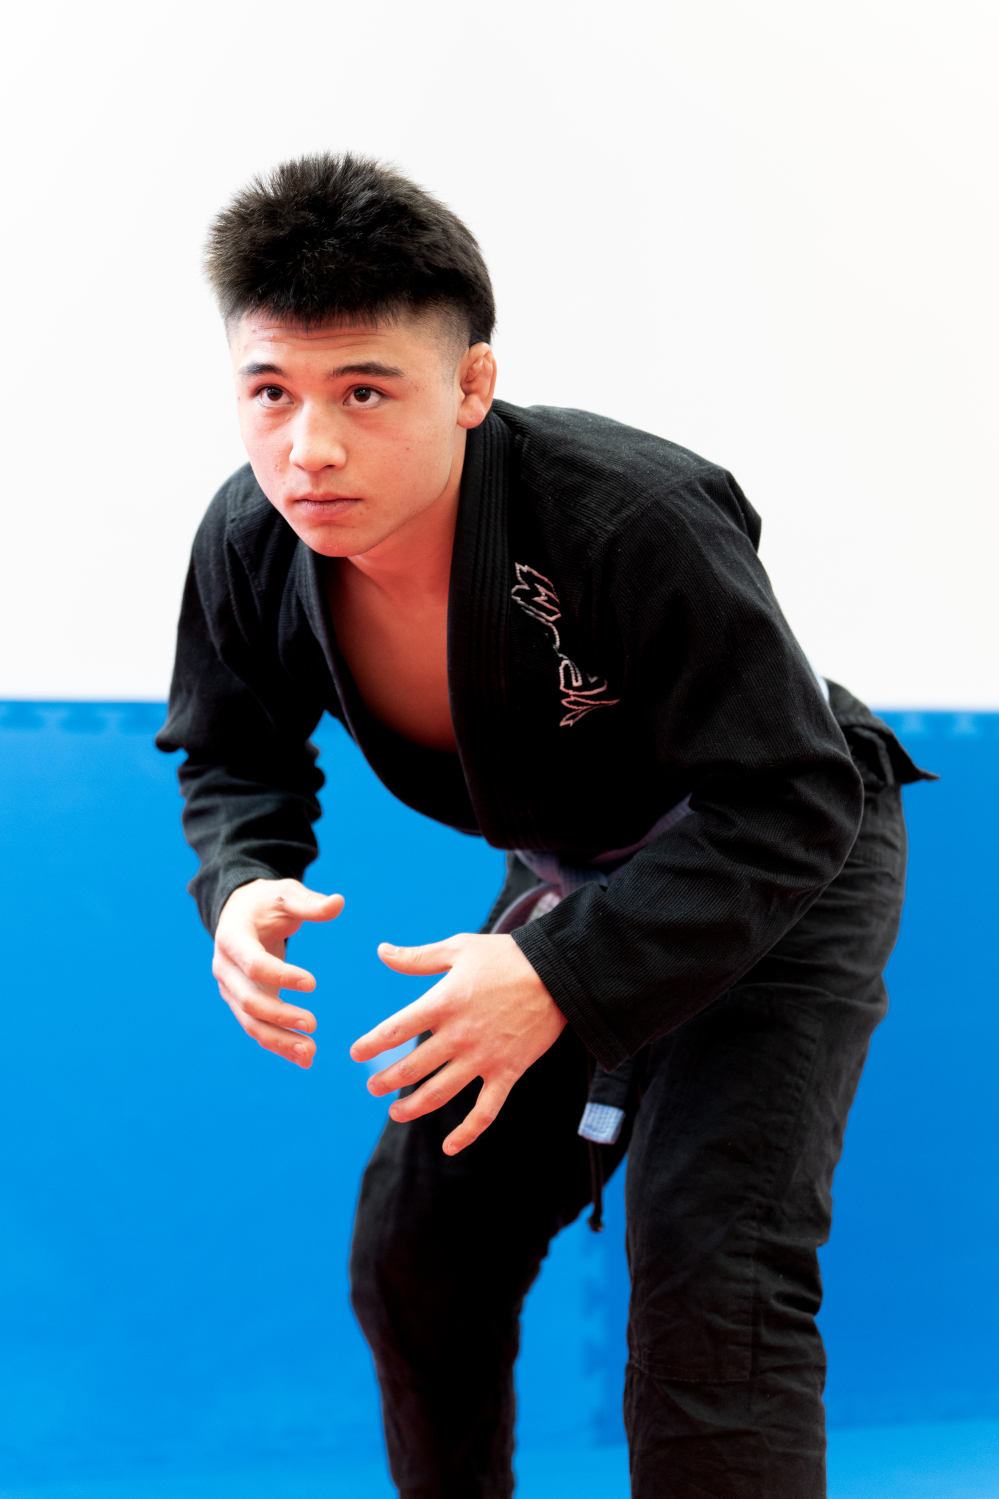
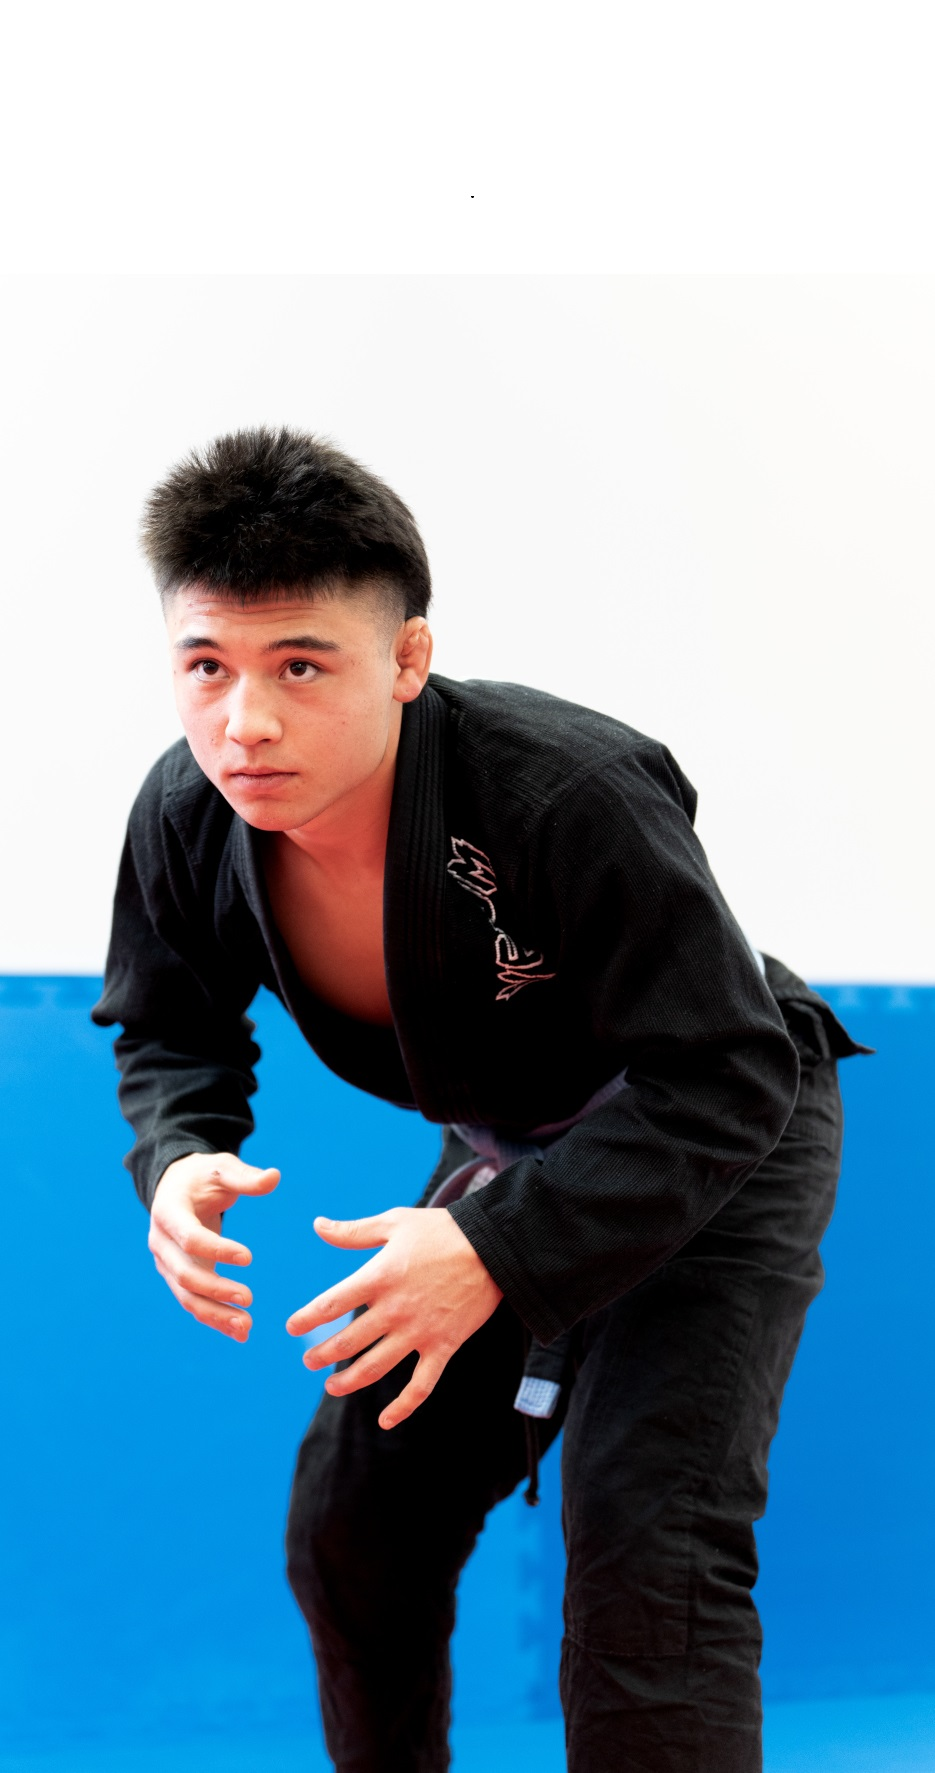
hi

diff --git a/src/Components/Coach.js b/src/Components/Coach.js
@@ -1,6 +1,8 @@
 import '../Stylesheets/Coaches.css'
 import Belt from './Belt'
 import { useState, useEffect } from 'react'
+import { faInstagram } from '@fortawesome/free-brands-svg-icons';
+import { FontAwesomeIcon } from '@fortawesome/react-fontawesome';
 
 export default function Coach({ coach }){
     const [showProfile, setShowProfile] = useState(false)
@@ -9,42 +11,41 @@ export default function Coach({ coach }){
         setShowProfile(prev => !prev)
     }
 
-    useEffect(() => {
-        if (showProfile) {
-            // Set slide to true after showProfile becomes true
-            setSlide(true)
-        } else {
-            // Reset slide to false when hiding the profile
-            setSlide(false)
-        }
-    }, [showProfile])
+ 
     return(
         <div onClick={toggleShowProfile} className="coach-container animate">
-            <div className='image-overlay'>
+<div className={`image-overlay ${coach.name === "Arthur" ? 'left' : ''}`}>
+   
+          <div className='half'>
+             
+          <div>
+             {coach.accomplishments.map((acc, index)=>{
+                    return(
+                        <p className='accomplishment' key={index}>{acc}</p>
+                    )
+                })} </div>
+                </div>
+       
             </div>
-            <div className={`${showProfile ? 'dim' : ''} coach-photo`} >
+            <div className='coach-photo'>
                 <img alt='Brazillian Jiu-Jitsu Instructor' src={coach.image} />
             </div>
+            <div>
+                <div className='name-and-ig'>
+                <p className='coach-nm'> {coach.name}</p> 
+            <a 
+             href={coach.link}
+            target="_blank"
+                rel="noopener noreferrer"
+             aria-label="Visit Instagram">   <FontAwesomeIcon className='ig-icon' icon={faInstagram} /> </a>
+         
+            </div>
+            </div>
+
             <div className='coach-belt'>
                 <Belt belt={coach.belt} />
             </div>
-            <div className='name-and-bio'>
-            <div className={`coach-name ${slide ? 'slide' : ''}`}>
-                {coach.name}
-            </div>
-           
-            <div className={`coach-bio ${slide ? 'slide' : ''}`}>
-                {coach.description}
-            </div>
 
-            <div className={`coach-accomplishments ${slide ? 'slide' : ''}`}>
-                {coach.accomplishments.map((acc, index)=>{
-                    return(
-                        <p key={index}>-{acc}</p>
-                    )
-                })}
-            </div>
-            </div>
         </div>
     )
 

diff --git a/src/Objects/CoachesObject.js b/src/Objects/CoachesObject.js
@@ -1,4 +1,4 @@
-import MaxImage from '../Media/mx.jpg'
+import MaxImage from '../Media/max.jpg'
 import ArthurImage from '../Media/art.jpg'
 import TajImage from '../Media/taj.png'
 import Rob from '../Media/rob.png'
@@ -6,20 +6,22 @@ import Vitaly from '../Media/Vitaly.png'
 const CoachesList = 
 [
 {
-    name: "Мах",
+    name: "Махim",
     belt:"Black Belt",
     headinstructor: 1,
     description: "Black belt under Jorge Britto, with nearly 15 years of experience.",
-    accomplishments:["Canadian National Champion", "Multiple Time IBJJF Open Champion", "IBJJF American Nationals Bronze Medalist", "Ontario Open Gold Medalist", "Amateur and Professional MMA Experience"],
-    image:MaxImage
+    accomplishments:["Canadian National Champion", "Multiple Time IBJJF Open Champion", "IBJJF American Nationals Bronze Medalist", "Ontario Open Gold Medalist", "Amateur MMA Champion", "Professional MMA Experience (1-0)"],
+    image:MaxImage,
+    link: 'https://www.instagram.com/maxli5000'
 },
 
 
   {name: "Arthur",
     belt:"Blue Belt",
-    accomplishments:["IBJJF London Open Bronze Medalist", "AJP Gold Medalist", "Next-Gen Gold Medalist", "Ontario Open Silver Medalist"],
+    accomplishments:[, "AJP Gold Medalist", "Next-Gen Gold Medalist", "Ontario Open Silver Medalist", "IBJJF London Open Bronze Medalist", "ADCC Canada 4th place", "Godai Open Bronze Medallist"],
     description: "A blue belt in BJJ, Arthur has 4 years of Jiujitsu experience. ",
-    image:ArthurImage
+    image:ArthurImage,
+    link: 'https://www.instagram.com/cucarachinho',
 
   },
 

diff --git a/src/Stylesheets/Coaches.css b/src/Stylesheets/Coaches.css
@@ -11,7 +11,7 @@
 
 
 .coach-belt{
-    margin-top:15px;
+    margin-top:5px;
 }
 
 
@@ -20,17 +20,73 @@
     position: relative;
 }
 
-.coach-container:hover{
-    cursor:pointer
+.coach-container p{
+    font-family: roboto condensed;
+}
+
+.name-and-ig{
+    display: flex;
+    justify-content: center;
+    align-items: center;
+    font-size:25px;
+}
+
+.coach-nm{
+    margin-right:10px
+}
+.image-overlay{
+    background: linear-gradient(to right, rgb(255, 255, 255), rgba(255, 255, 255, 0));
+    height:400px;
+    width:320px;
+    position: absolute;
+    z-index: 2;
+}
+
+.left{
+    background: linear-gradient(to left, rgb(255, 255, 255), rgba(255, 255, 255, 0));
+    height:400px;
+    width:320px;
+    position: absolute;
+    z-index: 2;
+    display: flex;
+    justify-content: flex-end;
+    text-align: right;
+    margin-right: 5px; 
+}
+
+.left p{
+    margin-right: 5px;
 }
 
 
+.half{
+    width: 60%;
+    font-family: roboto condensed;
+    display: flex;
+    flex-direction: column;
+    justify-content: center;
+    height:100%;
+}
 
+.accomplishment{
+    font-size: 15px;
+}
+ 
+
+
+.half p{
+    
+    font-family: roboto condensed;
+    margin-bottom:20px;
+    margin-left:5px;
+ 
+}
+ 
 .coach-photo img{
     margin:0 auto;
-   width:300px;
+   width:320px;
     height:400px;
-    border-radius:5%;
+    border-radius:10%;
     object-fit: cover;
     display: block;
 }

diff --git a/src/Coaches.js b/src/Coaches.js
@@ -9,7 +9,7 @@ export default function Coaches() {
             
        <div className="coaches-intro">
        <h1 > Coaches </h1>
-       <p>Our team of coaches is led by one of Canada's top black belts, and is committed to providing top-level BJJ instruction in a safe, inclusive, and professional environment. <span className="bold">Click on each photo to learn more.</span></p>
+       <p>Our team of coaches is led by one of Canada's top black belts, and is committed to providing top-level BJJ instruction in a safe, inclusive, and professional environment. </p>
        </div>
        <div className="coaches">
             {
